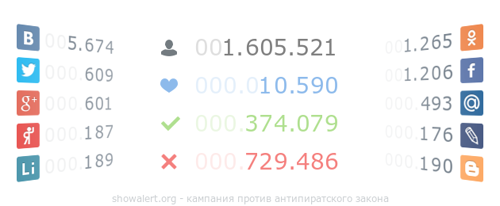
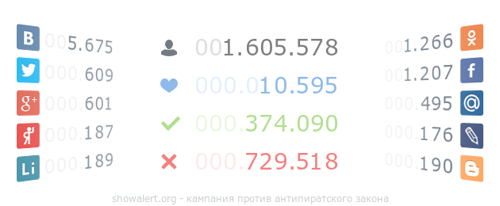
some updates

diff --git a/votes.js b/votes.js
@@ -1,1 +1,1 @@
-window.lk.votes(23844)
+window.lk.votes(23846)
